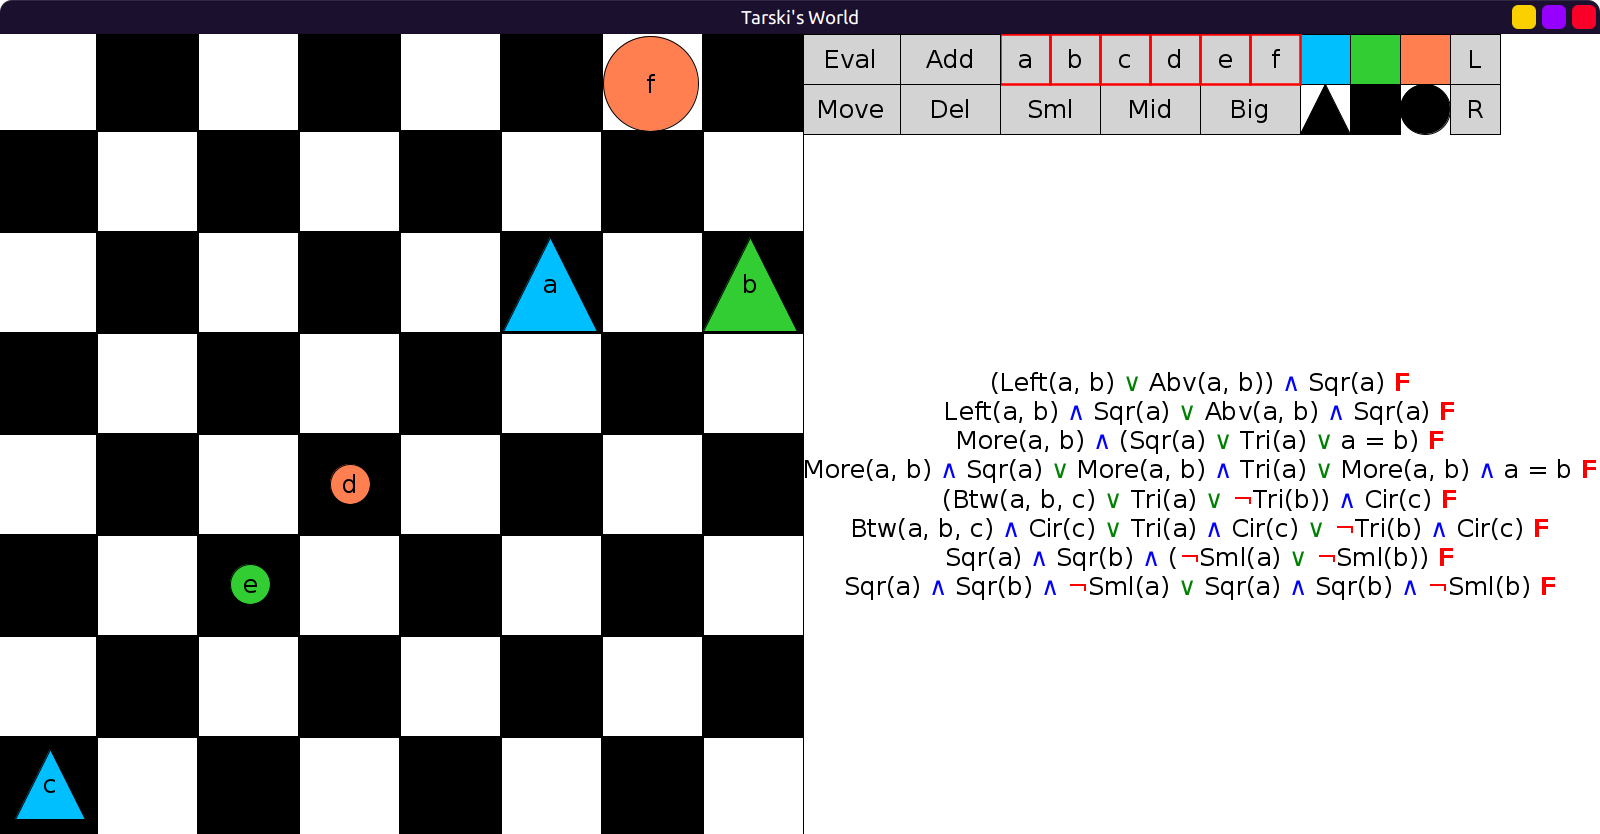
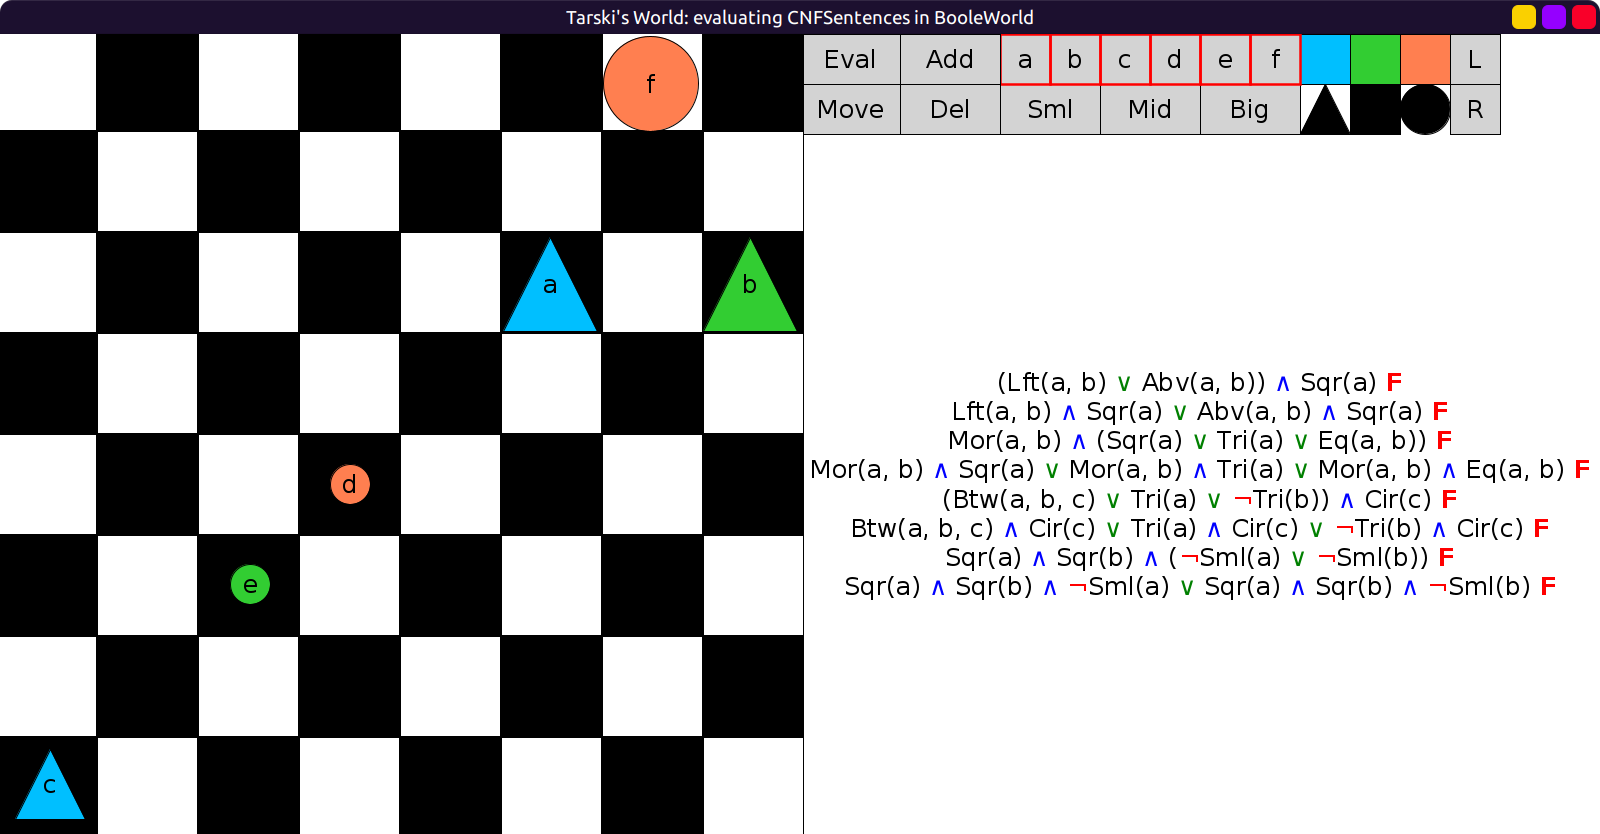
rework ex22

Changed region(s): [[0.5, 0.4365, 1.0, 0.5923], [0.3438, 0.0, 0.6562, 0.0312]]

diff --git a/examples/propositional-logic/22/README.md b/examples/propositional-logic/22/README.md
@@ -28,40 +28,54 @@ equivalent to the sentence above it. Check your work by opening
 several worlds and checking to see that each of your sentences has the
 same truth value as the one above it.
 
-(Recall that equality `=` means "value equality", a.k.a. equality:
+(Recall that `Eq` means "value equality", a.k.a. equality:
 `Eq(a, b)` if the blocks labeled `a` and `b` are equal in size, shape and tone.
-This is in contrast to "reference equality" `Loc`, a.k.a. identity:
-`Loc(x,y)` means that `x` and `y` have the same row and column on the board,
+This is in contrast to "reference equality" `=`, a.k.a. identity:
+`x = y` means that `x` and `y` have the same row and column on the board,
 in other words they refer to one and the same block.)
 
 ## Longer example (optional)
 
 Consider this sentence in CNF:
 
+```scala
 (Sml(a) ∨ Mid(a)) ∧ (Sqr(a) ∨ ¬Cir(a))
+```
 
-Let's put it in DNF. First let's simplify a bit with A = (Sml(a) ∨ Mid(a)):
+Let's put it in DNF. First let's simplify a bit with `A = (Sml(a) ∨ Mid(a))`:
 
+```scala
 A ∧ (Sqr(a) ∨ ¬Cir(a))
+```
 
 If we use the distributive property we get:
 
+```scala
 (A ∧ Sqr(a)) ∨ (A ∧ ¬Cir(a))
+```
 
 Now let's work on each part separately:
 
+```scala
 (A ∧ Sqr(a)) is ((Sml(a) ∨ Mid(a)) ∧ Sqr(a))
+```
 
 If we use the distributive property here we get:
 
+```scala
 (Sml(a) ∧ Sqr(a)) ∨ (Mid(a) ∧ Sqr(a))
+```
 
 Similarly distributing on the other half, we get:
 
+```scala
 (Sml(a) ∧ ¬Cir(a)) ∨ (Mid(a) ∧ ¬Cir(a))
+```
 
 Putting them back together into (A ∧ Sqr(a)) ∨ (A ∧ ¬Cir(a)) we get:
 
+```scala
 (Sml(a) ∧ Sqr(a)) ∨ (Mid(a) ∧ Sqr(a)) ∨ (Sml(a) ∧ ¬Cir(a)) ∨ (Mid(a) ∧ ¬Cir(a))
+```
 
 which is in disjunctive normal form.
